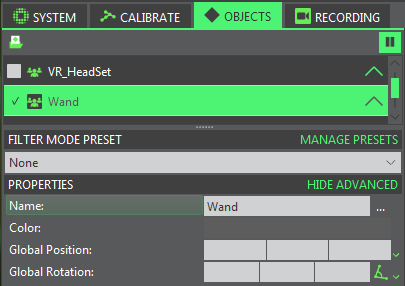
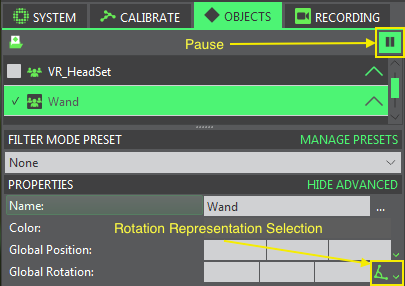
Finish readme

Changed region(s): [[0.2667, 0.7832, 1.0, 1.0], [0.4444, 0.0839, 1.0, 0.2238]]

diff --git a/README.md b/README.md
@@ -5,12 +5,32 @@ Blender addon for importing motion capture data stored in CSV files exported by 
 
 <center><img src='doc/ImportMenu.PNG' alt='Import menu option' width=75%/></center>
 
-To use the addon, select the Blender object you wish to map the motion tracking data to and select Vicon CSV (.csv) under File->Import.
+To use the addon, select the Blender object you wish to map the motion tracking data to and select Vicon CSV (.csv) under File->Import. The motion capture data will be used to animate the active object as a series of keyframes.
 
 <center><img src='doc/ImportOptions.PNG' alt='Import dialog options' width=30%/></center>
 
 In the resulting dialog select the CSV file containing the exported motion capture data. On the left sidebar, specify the motion capture data frame rate and optionally the name of the tracked object to import. If no name is given, the addon defaults to the first object to appear in the CSV file.
 
-After clicking "Import Vicon CSV," the motion capture data will be written to the object as a series of keyframes. If the frame rate of the Blender scene does not match the motion capture data's framerate, the addon will perform simple interpolation to compensate.
+If the frame rate of the Blender scene does not match the motion capture data's framerate, the addon will perform simple interpolation to compensate.
 
 # Recording Process
+These instructions were written for Vicon Tracker version 3.5.
+
+## System Setup
+Beyond performing the standard object setup and camera calibration workflow, there are a couple extra settings to be aware of before making recordings.
+
+<center><img src='doc/SystemSettings.PNG' alt='System Settings' width=30%/></center>
+
+Under the System tab, double check the system frame rate. Since the frame rate is not exported with the motion capture data in the CSV, it will be necessary to enter it manually when importing into Blender.
+
+<center><img src='doc/ObjectSettings.PNG' alt='Object Settings' width=30%/></center>
+
+For the objects that will be tracked, open the advanced properties and ensure the rotation representation is set to "XYZ." This ensures the ordering of exported rotation data is correctly matched when importing into Blender. If this option is not available, press the pause button at the top of the object selection section, or set Vicon Tracker to Offline mode. 
+
+<center><img src='doc/RecordingSettings.PNG' alt='Recording Settings' width=30%/></center>
+
+Next, start the recording from the recording tab. Vicon Tracker does not automatically load recorded trials, so use the Load Trial button under playback to open the take you wish to export.
+
+<center><img src='doc/CSVSettings.PNG' alt='CSV Export Settings' width=30%/></center>
+
+Before exporting, open the advanced settings in the Export CSV section and check that the angle representation is set to Helical. For now, this addon only implements importing Euler rotations. This section also has options for selecting what frames and objects to export. Once everything is set, click Export. The outputted CSV file should be ready for importing into Blender.
